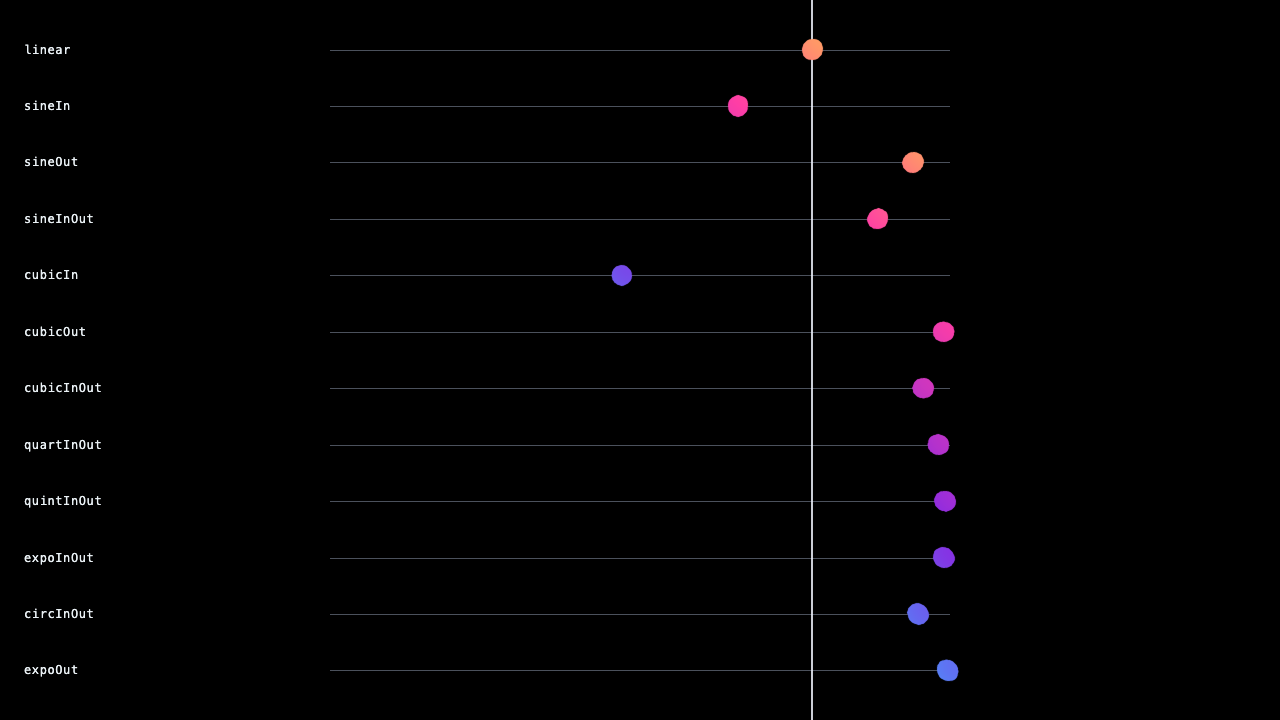
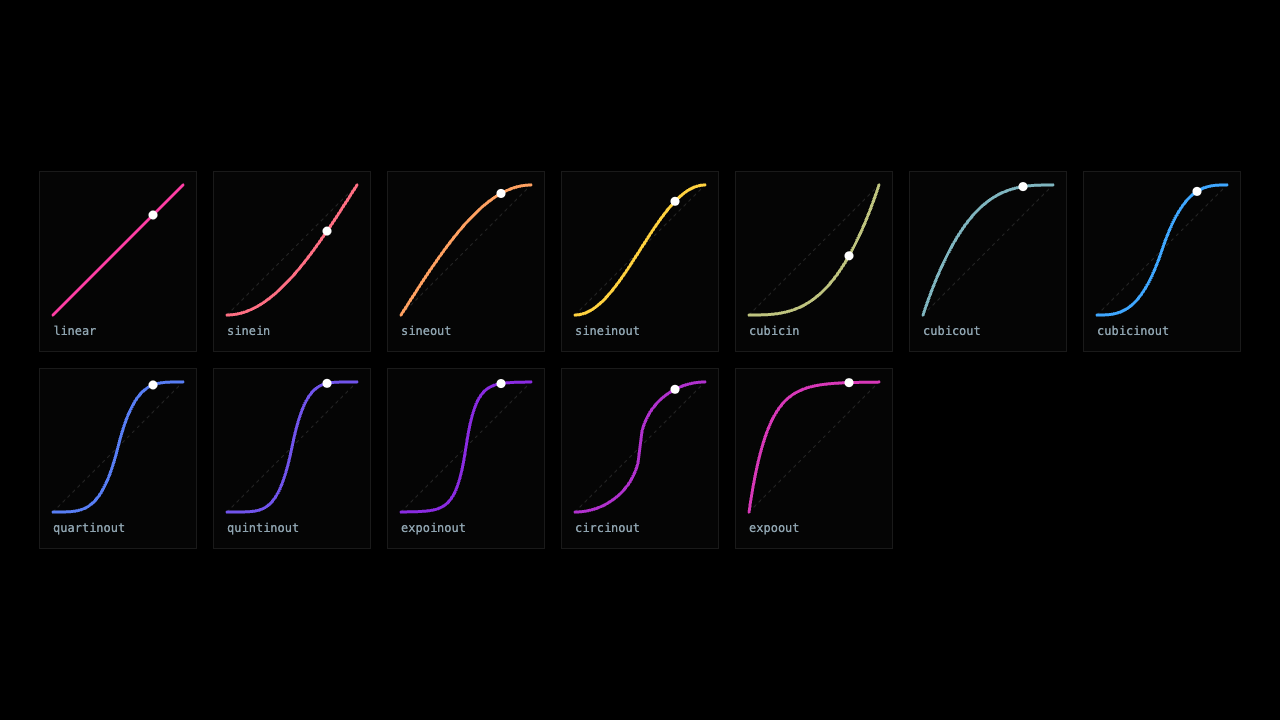
feat(examples): redesign easing gallery as centered small-multiples cards

diff --git a/examples/src/example-easing.ts b/examples/src/example-easing.ts
@@ -1,16 +1,10 @@
-import * as g from 'gpucat';
-import { d } from 'gpucat';
 import { easing } from 'math/time';
-import { rainbowRGB, time } from './common/rainbow';
-import { createRenderer } from './common/renderer';
 
-// An easing gallery: one track per math easing function. All dots start
-// together and race across, spreading apart as each follows its own pacing, then
-// ease back — the clearest way to feel the difference between the curves. A
-// playhead marks the linear time t; each dot leads or lags it by its easing.
-//
-// The tracks, playhead and labels are crisp DOM (hairline GPU lines fight FXAA);
-// only the rainbow dots are drawn, on a transparent canvas layered over the DOM.
+// A small-multiples gallery of math's easing functions: one card per curve,
+// drawn to a 2D canvas. Each card plots the easing (input t across, output
+// eased(t) up) against a faint linear reference, with a dot tracing the curve at
+// a shared, ping-ponging t so you can read each curve's shape and pacing at a
+// glance. The plotted line is the function itself, sampled over [0, 1].
 
 const EASINGS: [string, (t: number) => number][] = [
     ['linear', easing.linear],
@@ -28,170 +22,143 @@ const EASINGS: [string, (t: number) => number][] = [
 ];
 
 const N = EASINGS.length;
-const TRACK_LEFT = -1.5;
-const TRACK_RIGHT = 1.5;
-const TOP = 1.5;
-const BOTTOM = -1.5;
-const PLAYHEAD_TOP = TOP + 0.28;
-const PLAYHEAD_BOTTOM = BOTTOM - 0.28;
-const rowY = (i: number) => TOP + (BOTTOM - TOP) * (i / (N - 1));
 const PERIOD = 2.2; // seconds for one out-and-back
+const SAMPLES = 64; // curve resolution
 
-/* renderer */
+// card metrics (CSS pixels)
+const PLOT = 130;
+const PAD = 14;
+const NAME_GAP = 9;
+const NAME_H = 14;
+const GAP = 16;
+const MARGIN = 32;
+const CARD_W = PLOT + PAD * 2;
+const CARD_H = PAD + PLOT + NAME_GAP + NAME_H + PAD;
+const MONO = 'ui-monospace, "SF Mono", "JetBrains Mono", Menlo, Consolas, monospace';
 
-// alpha:true + a zero clear colour => transparent canvas, so the DOM shows through
-const renderer = await createRenderer({ antialias: true, alpha: true });
-renderer.clearColor = [0, 0, 0, 0];
+// brand palette stops (pink -> yellow -> blue -> purple), looped, for per-card hue
+const STOPS = [
+    [255, 62, 165],
+    [255, 210, 63],
+    [63, 167, 255],
+    [138, 43, 226],
+];
+function cardColor(u: number): string {
+    const x = (((u % 1) + 1) % 1) * 4;
+    const i = Math.floor(x) % 4;
+    const f = x - Math.floor(x);
+    const a = STOPS[i];
+    const b = STOPS[(i + 1) % 4];
+    const r = Math.round(a[0] + (b[0] - a[0]) * f);
+    const g = Math.round(a[1] + (b[1] - a[1]) * f);
+    const bl = Math.round(a[2] + (b[2] - a[2]) * f);
+    return `rgb(${r}, ${g}, ${bl})`;
+}
+const COLORS = EASINGS.map((_, i) => cardColor(i / N));
 
-const canvas = renderer.domElement as HTMLCanvasElement;
-canvas.style.position = 'absolute';
-canvas.style.inset = '0';
-canvas.style.zIndex = '1';
+/* canvas */
+
+const canvas = document.createElement('canvas');
+canvas.style.display = 'block';
 document.body.appendChild(canvas);
-renderer.setPixelRatio(devicePixelRatio);
-renderer.setSize(window.innerWidth, window.innerHeight);
+const ctx = canvas.getContext('2d') as CanvasRenderingContext2D;
 
-const scene = new g.Scene();
+let cols = 1;
+let startX = 0;
+let startY = 0;
 
-const camera = new g.PerspectiveCamera(Math.PI / 4, window.innerWidth / window.innerHeight, 0.1, 100);
-camera.position[2] = 4.2;
-camera.updateProjectionMatrix();
-scene.add(camera);
-
-// project a world (x, y) on the z=0 plane to screen pixels (camera looks down -z)
-const FOV = Math.PI / 4;
-function project(wx: number, wy: number): [number, number] {
+function resize() {
     const w = window.innerWidth;
     const h = window.innerHeight;
-    const halfH = camera.position[2] * Math.tan(FOV / 2);
-    const halfW = halfH * (w / h);
-    return [((wx / halfW) * 0.5 + 0.5) * w, (0.5 - (wy / halfH) * 0.5) * h];
+    const dpr = window.devicePixelRatio || 1;
+    canvas.width = Math.round(w * dpr);
+    canvas.height = Math.round(h * dpr);
+    canvas.style.width = `${w}px`;
+    canvas.style.height = `${h}px`;
+    ctx.setTransform(dpr, 0, 0, dpr, 0, 0);
+
+    // lay the cards out in a centred grid
+    const avail = w - MARGIN * 2;
+    cols = Math.max(1, Math.min(N, Math.floor((avail + GAP) / (CARD_W + GAP))));
+    const rows = Math.ceil(N / cols);
+    const blockW = cols * CARD_W + (cols - 1) * GAP;
+    const blockH = rows * CARD_H + (rows - 1) * GAP;
+    startX = (w - blockW) / 2;
+    startY = (h - blockH) / 2; // vertically centred
 }
+window.addEventListener('resize', resize);
+resize();
 
-/* dots (canvas) */
+/* draw */
 
-// racing dots — a single instanced mesh (one instance per easing). Each dot's
-// position lives in a storage buffer we rewrite each frame; colour is the
-// flowing rainbow sampled at the instance's world position.
-const dotGeometry = g.createSphereGeometry(0.05, 16, 12);
-// vec4 (not vec3) so the std430 storage stride matches our tightly-packed data
-const dotPositions = new Float32Array(N * 4);
-const dotPositionBuffer = new g.GpuBuffer(d.array(d.vec4f), { data: dotPositions, usage: 'storage' });
-const instancePosition = g.index(g.storage(dotPositionBuffer), g.instanceIndex);
+function drawCard(index: number, p: number) {
+    const col = index % cols;
+    const row = Math.floor(index / cols);
+    const x = startX + col * (CARD_W + GAP);
+    const y = startY + row * (CARD_H + GAP);
+    const [name, fn] = EASINGS[index];
 
-const dotPos = g.attribute('position', d.vec3f);
-const dotWorld = g.add(dotPos, instancePosition.xyz);
-const dotClip = g.mul(g.cameraProjectionMatrix, g.mul(g.cameraViewMatrix, g.vec4(dotWorld, g.f32(1))));
-const dotVWorld = g.varying(dotWorld, 'v_dworld');
-const dotMaterial = new g.Material({ vertex: dotClip, fragment: g.vec4(rainbowRGB(dotVWorld, 2.5), g.f32(1)) });
-const dots = new g.Mesh(dotGeometry, dotMaterial);
-dots.count = N;
-scene.add(dots);
+    // card background + border
+    ctx.fillStyle = 'rgba(255, 255, 255, 0.02)';
+    ctx.strokeStyle = 'rgba(255, 255, 255, 0.09)';
+    ctx.lineWidth = 1;
+    ctx.beginPath();
+    ctx.rect(x + 0.5, y + 0.5, CARD_W - 1, CARD_H - 1);
+    ctx.fill();
+    ctx.stroke();
 
-/* tracks + labels (DOM) */
+    // plot origin (top-left of the square plot area)
+    const px = x + PAD;
+    const py = y + PAD;
+    const mapX = (t: number) => px + t * PLOT;
+    const mapY = (e: number) => py + (1 - e) * PLOT; // e=0 bottom, e=1 top
 
-// under-canvas layer: one hairline track per row + the sweeping playhead
-const overlay = document.createElement('div');
-overlay.style.cssText = 'position:absolute;inset:0;z-index:0;pointer-events:none;overflow:hidden';
-document.body.appendChild(overlay);
+    // faint linear reference
+    ctx.strokeStyle = 'rgba(255, 255, 255, 0.12)';
+    ctx.lineWidth = 1;
+    ctx.setLineDash([3, 4]);
+    ctx.beginPath();
+    ctx.moveTo(mapX(0), mapY(0));
+    ctx.lineTo(mapX(1), mapY(1));
+    ctx.stroke();
+    ctx.setLineDash([]);
 
-const trackEls = EASINGS.map(() => {
-    const el = document.createElement('div');
-    el.style.cssText = 'position:absolute;height:1px;background:rgba(150,162,184,0.5)';
-    overlay.appendChild(el);
-    return el;
-});
-
-const playheadEl = document.createElement('div');
-playheadEl.style.cssText = 'position:absolute;width:2px;border-radius:1px;background:rgba(238,242,252,0.85)';
-overlay.appendChild(playheadEl);
-
-// over-canvas layer: easing names, the 0/1 axis ends, and the floating t readout
-function mkLabel(text: string, transform: string): HTMLDivElement {
-    const el = document.createElement('div');
-    el.textContent = text;
-    el.className = 'mc-label';
-    el.style.transform = transform;
-    el.style.color = 'var(--mc-ink)';
-    el.style.zIndex = '10';
-    document.body.appendChild(el);
-    return el;
-}
-const labels = EASINGS.map(([name]) => mkLabel(name, 'translateY(-50%)'));
-for (const el of labels) el.style.left = '24px';
-const zeroEl = mkLabel('0', 'translate(-50%, 0)');
-const oneEl = mkLabel('1', 'translate(-50%, 0)');
-const tReadout = mkLabel('t 0.00', 'translate(-50%, -150%)');
-tReadout.style.zIndex = '11';
-
-// place everything that only moves on resize
-function layout() {
-    for (let i = 0; i < N; i++) {
-        const y = rowY(i);
-        const [lx, ly] = project(TRACK_LEFT, y);
-        const [rx] = project(TRACK_RIGHT, y);
-        trackEls[i].style.left = `${lx}px`;
-        trackEls[i].style.top = `${ly}px`;
-        trackEls[i].style.width = `${rx - lx}px`;
-        labels[i].style.top = `${ly}px`;
+    // the easing curve (the function itself, sampled)
+    ctx.strokeStyle = COLORS[index];
+    ctx.lineWidth = 3;
+    ctx.lineJoin = 'round';
+    ctx.lineCap = 'round';
+    ctx.beginPath();
+    for (let s = 0; s <= SAMPLES; s++) {
+        const t = s / SAMPLES;
+        const cx = mapX(t);
+        const cy = mapY(fn(t));
+        if (s === 0) ctx.moveTo(cx, cy);
+        else ctx.lineTo(cx, cy);
     }
-    const topY = project(0, PLAYHEAD_TOP)[1];
-    const botY = project(0, PLAYHEAD_BOTTOM)[1];
-    playheadEl.style.top = `${topY}px`;
-    playheadEl.style.height = `${botY - topY}px`;
+    ctx.stroke();
 
-    const [zx, zy] = project(TRACK_LEFT, BOTTOM - 0.35);
-    zeroEl.style.left = `${zx}px`;
-    zeroEl.style.top = `${zy}px`;
-    const [ox, oy] = project(TRACK_RIGHT, BOTTOM - 0.35);
-    oneEl.style.left = `${ox}px`;
-    oneEl.style.top = `${oy}px`;
+    // the tracing dot at the shared t
+    ctx.fillStyle = '#fff';
+    ctx.beginPath();
+    ctx.arc(mapX(p), mapY(fn(p)), 4.5, 0, Math.PI * 2);
+    ctx.fill();
+
+    // name below the plot
+    ctx.fillStyle = '#8ea3af';
+    ctx.font = `12px ${MONO}`;
+    ctx.textBaseline = 'alphabetic';
+    ctx.fillText(name.toLowerCase(), px, py + PLOT + NAME_GAP + 11);
 }
-layout();
-
-window.addEventListener('resize', () => {
-    renderer.setSize(window.innerWidth, window.innerHeight);
-    camera.aspect = window.innerWidth / window.innerHeight;
-    camera.updateProjectionMatrix();
-    layout();
-});
-
-/* render */
-
-scene.updateWorldMatrix();
-camera.updateViewMatrix();
-
-const scenePass = g.pass(scene, camera, { clearColor: [0, 0, 0, 0] });
-const outputNode = g.fxaa(scenePass.getTextureNode());
-const renderPipeline = new g.RenderPipeline(renderer, outputNode);
 
 function frame(tms: number) {
     const t = tms / 1000;
-    time.value = t;
-
-    // shared out-and-back linear time (0 -> 1 -> 0)
     const cyc = (t / PERIOD) % 2;
-    const p = cyc < 1 ? cyc : 2 - cyc;
+    const p = cyc < 1 ? cyc : 2 - cyc; // 0 -> 1 -> 0
 
-    for (let i = 0; i < N; i++) {
-        const eased = EASINGS[i][1](p);
-        dotPositions[i * 4] = TRACK_LEFT + (TRACK_RIGHT - TRACK_LEFT) * eased;
-        dotPositions[i * 4 + 1] = rowY(i);
-        dotPositions[i * 4 + 2] = 0;
-    }
-    dotPositionBuffer.needsUpdate = true;
+    ctx.clearRect(0, 0, window.innerWidth, window.innerHeight);
+    for (let i = 0; i < N; i++) drawCard(i, p);
 
-    // playhead + t readout follow the linear time
-    const px = TRACK_LEFT + (TRACK_RIGHT - TRACK_LEFT) * p;
-    const [phx, phy] = project(px, PLAYHEAD_TOP);
-    playheadEl.style.left = `${phx - 1}px`;
-    tReadout.style.left = `${phx}px`;
-    tReadout.style.top = `${phy}px`;
-    tReadout.textContent = `t ${p.toFixed(2)}`;
-
-    scene.updateWorldMatrix();
-    camera.updateViewMatrix();
-    renderPipeline.render();
     requestAnimationFrame(frame);
 }
 
